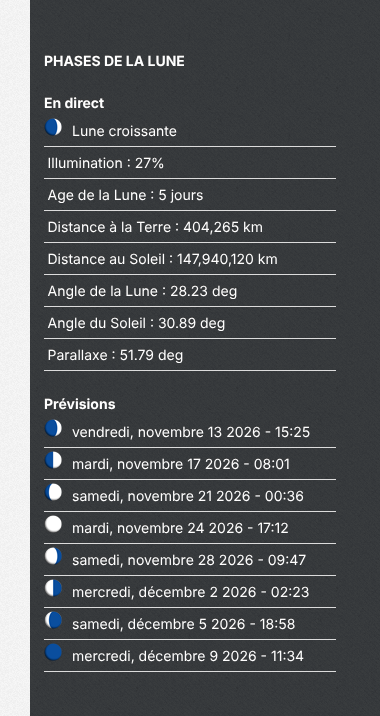
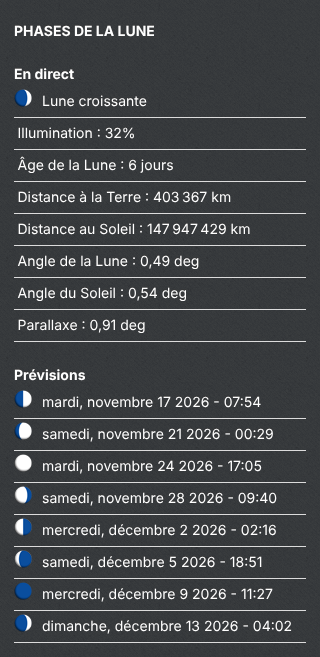
[cosmetic] User guide: follow the values, numbers, previsions and images fixes, new screenshot

Changed region(s): [[0.0, 0.0, 0.9062, 1.0]]

diff --git a/docs/fr/utilisation.md b/docs/fr/utilisation.md
@@ -29,7 +29,7 @@ La partie **En direct** donne, au moment de l'affichage :
 
 La partie **Prévisions** liste les dates et heures des prochaines phases : nouvelle lune, premier quartier, pleine lune, dernier quartier, etc. L'heure est celle du fuseau horaire du blog. Au survol d'une ligne, le nom de la phase apparaît.
 
-Les petites images sont ajoutées par la feuille de style du plugin, uniquement dans une zone du thème dont l'identifiant est `sidebar`.
+Les petites images sont ajoutées par la feuille de style du plugin, quelle que soit la zone du thème où se trouve le gadget.
 
 ## Les réglages
 
@@ -46,7 +46,6 @@ Si vous décochez toutes les informations « En direct » et les prévisions, se
 
 ## Bon à savoir
 
-* Les angles de la Lune et du Soleil et la parallaxe sont affichés avec une valeur erronée : par exemple « Angle de la Lune : 28.23 deg » et « Parallaxe : 51.79 deg », alors que la taille apparente de la Lune est d'environ 0,5° et sa parallaxe d'environ 1°. Les valeurs, déjà en degrés, sont converties une seconde fois.
-* Les distances utilisent une virgule comme séparateur de milliers (« 404,265 km »), même en français.
-* La première ligne des prévisions peut être une phase déjà passée.
-* Les images des phases ne s'affichent que si la zone du thème s'appelle `sidebar`.
+* Les nombres suivent la langue du blog : en français, `403 367 km` et `0,49 deg`.
+* La partie « Prévisions » ne liste que des phases à venir.
+* Les angles et la parallaxe sont donnés en degrés : environ 0,5° pour la taille apparente de la Lune et du Soleil, environ 1° pour la parallaxe de la Lune.
